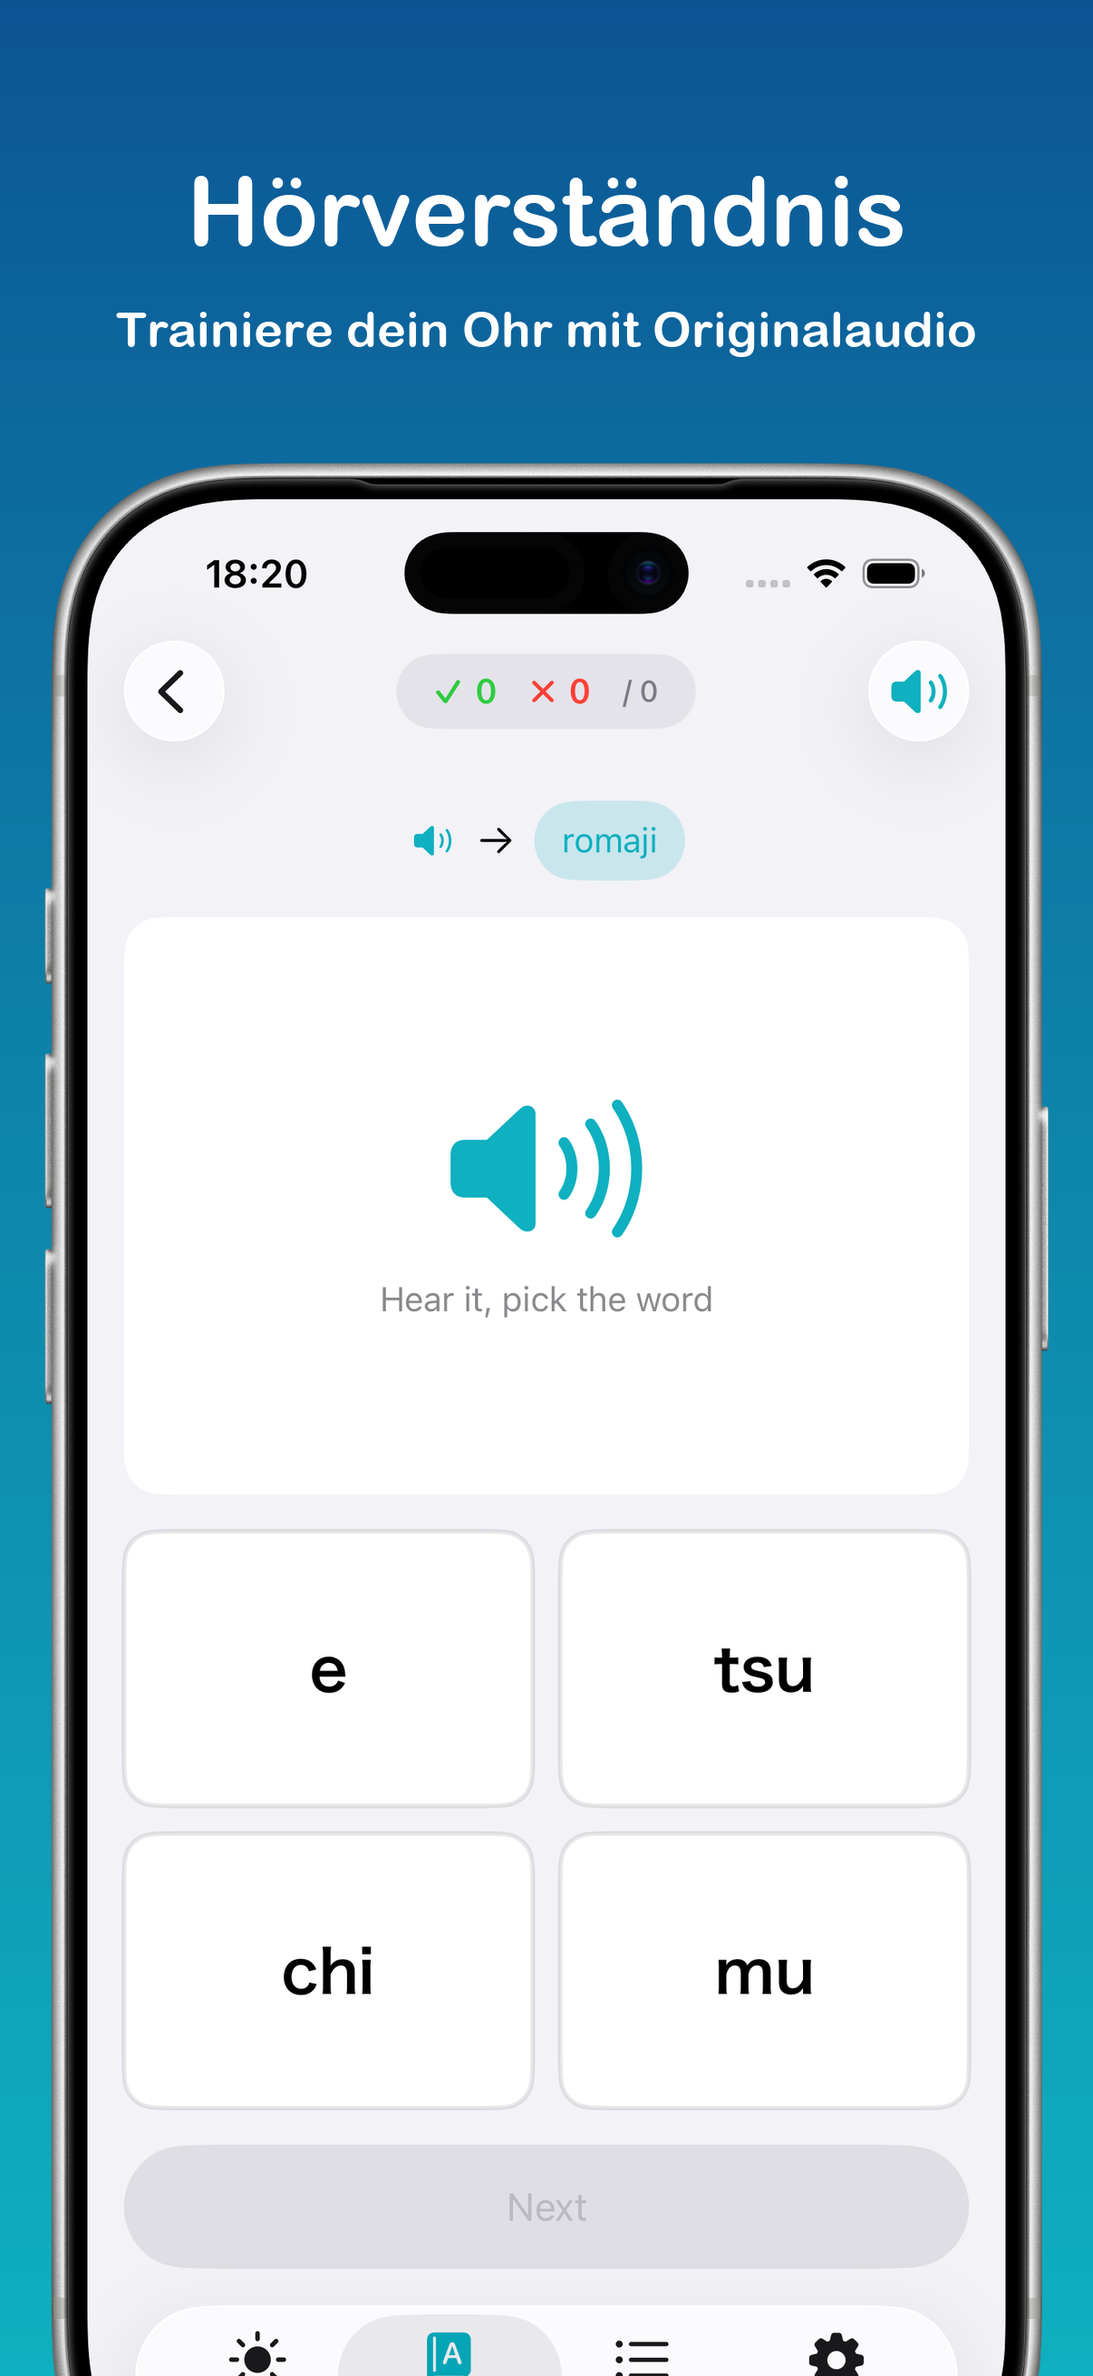
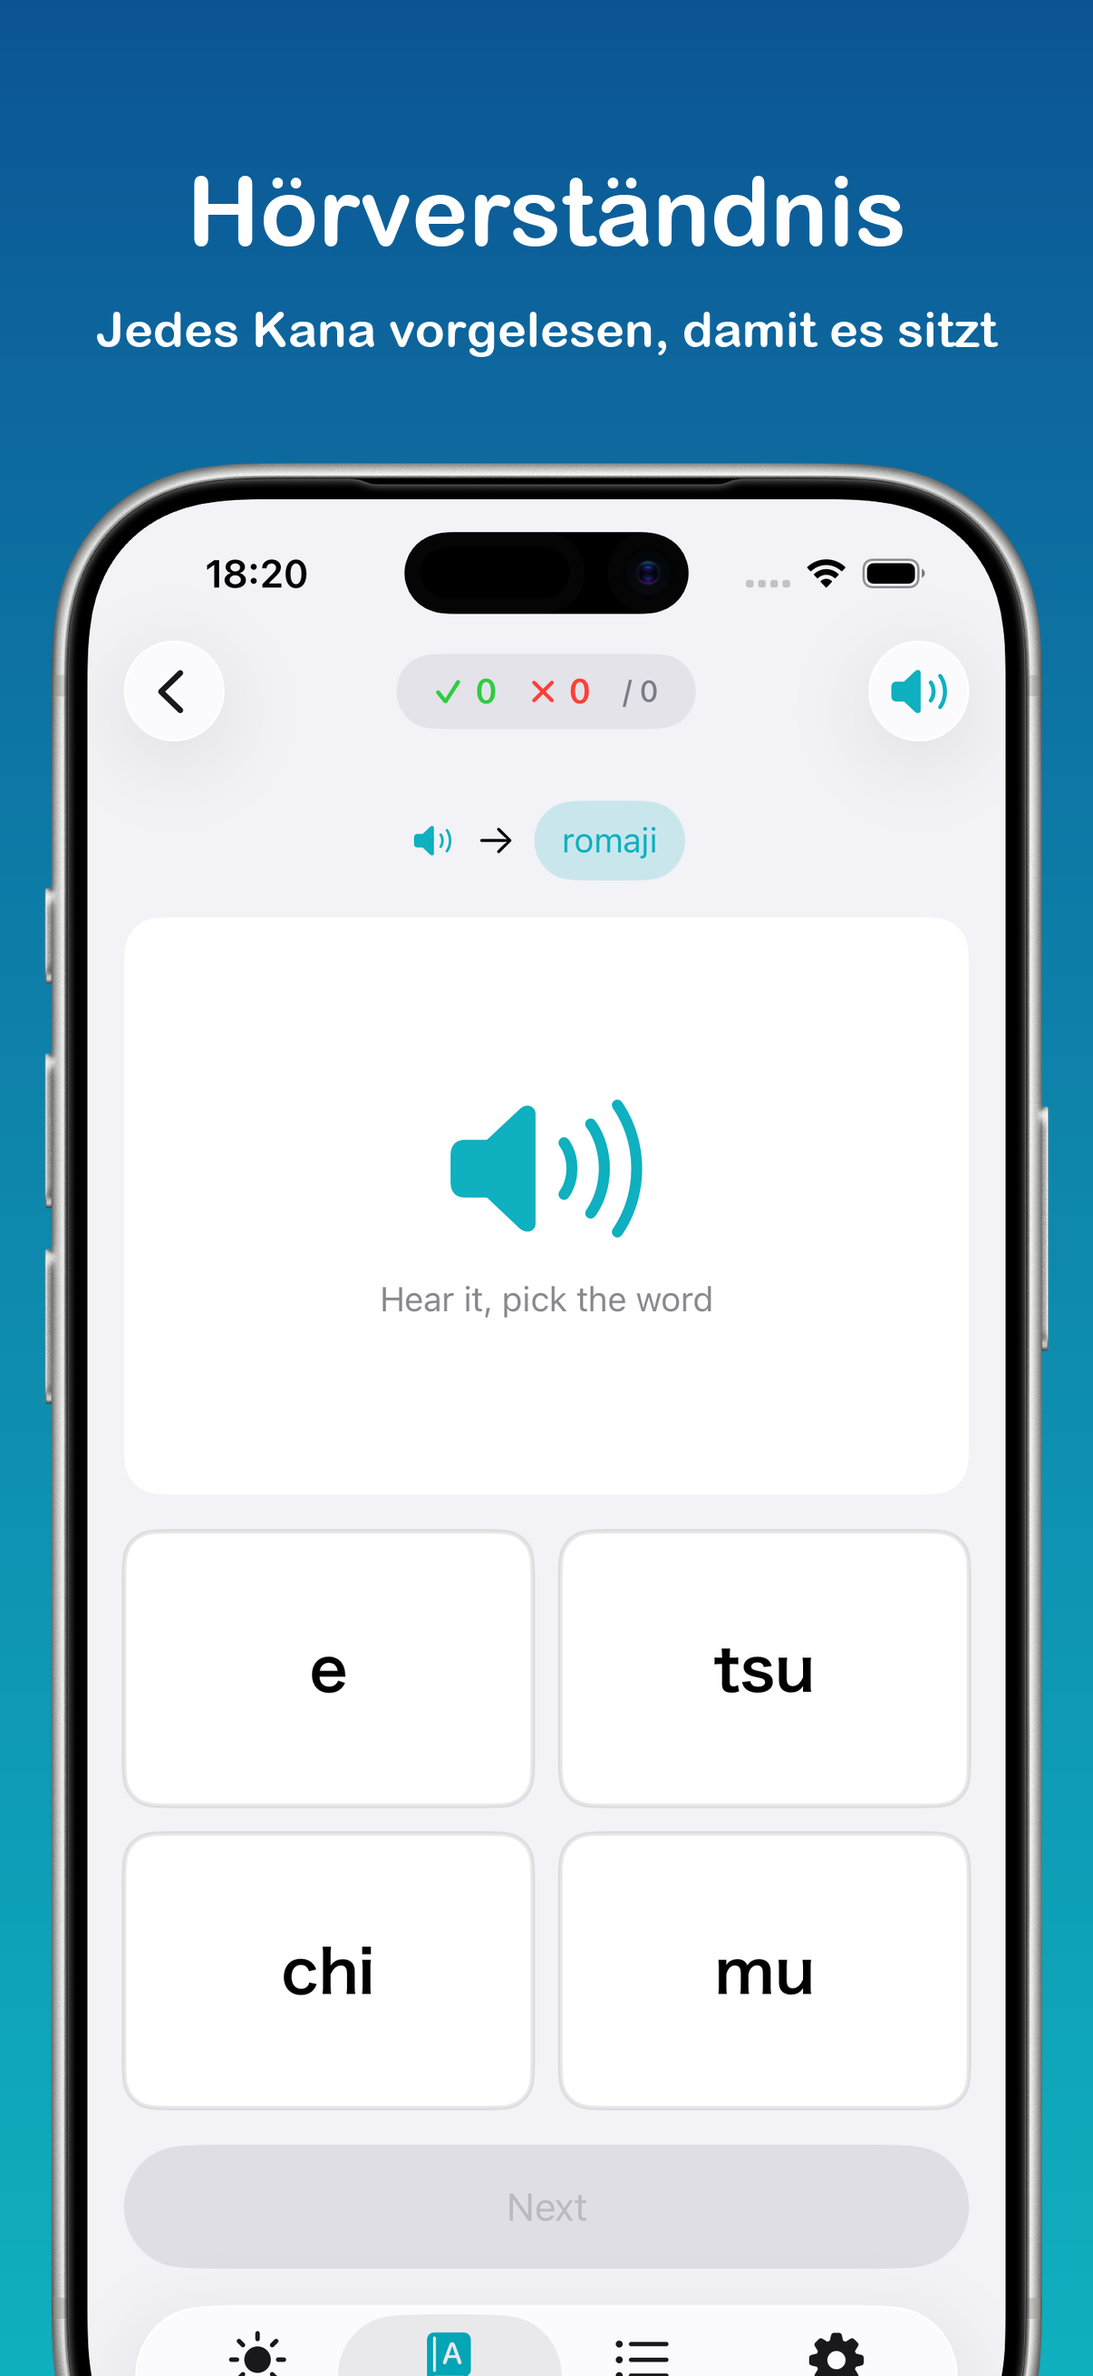
feat: frame App Store screenshots for six more locales
Adds es-ES, fr-FR, id, ja and ko, taking the framed sets to twelve locales at
22 images each. Headlines are written from each locale's own store description
register rather than translated from English, and name the practice modes the
way that language's UI names them.

Japanese gets Hiragino Maru Gothic ProN, the only rounded Japanese face on
macOS and the same family the app uses; Korean gets Apple SD Gothic Neo, since
no rounded Korean face exists. Neither needs shaping — kana are single glyphs
and modern Hangul is precomposed.

Hindi and Tamil stay out. Pillow here has no libraqm, so Devanagari conjuncts
never form and Tamil's pre-base vowel signs render on the wrong side or as a
dotted circle. The visual-order workaround was tried and rejected: it would put
text in the file that is not valid Hindi or Tamil, which --check cannot catch
because every codepoint still has a glyph.

Also drops the fil block, unshippable for the reason recorded in the Fastfile.

Changed region(s): [[0.092, 0.1236, 0.9204, 0.1545]]

diff --git a/fastlane/generate_framed_screenshots.py b/fastlane/generate_framed_screenshots.py
@@ -34,6 +34,11 @@ line must fit the canvas width on every device. Run it after any copy or font
 edit; a missing glyph or an overflowing line is silent at render time and only
 shows up as tofu boxes / clipped text in the uploaded screenshot.
 
+LOCALES covers every App Store localization except `hi` — Devanagari and Tamil
+cannot be rendered correctly without a text shaper, and this Pillow has none.
+That call is argued out in full in the comment below LOCALES; don't add either
+locale back without reading it.
+
 NOTE on architecture: the Pillow wheel installed on this machine is x86_64
 only; plain `python3` on Apple Silicon resolves to the arm64 slice and can't
 load Pillow's compiled extension. Always run this via `arch -x86_64 python3`
@@ -83,6 +88,8 @@ FONT_ARIAL_ROUNDED = "/System/Library/Fonts/Supplemental/Arial Rounded Bold.ttf"
 FONT_SF_ROUNDED = "/System/Library/Fonts/SFNSRounded.ttf"
 FONT_HEITI = "/System/Library/Fonts/STHeiti Medium.ttc"
 FONT_SUKHUMVIT = "/System/Library/Fonts/Supplemental/SukhumvitSet.ttc"
+FONT_HIRA_MARU = "/System/Library/Fonts/ヒラギノ丸ゴ ProN W4.ttc"
+FONT_APPLE_SD_GOTHIC = "/System/Library/Fonts/AppleSDGothicNeo.ttc"
 
 # Brand colors: BLUE sampled from nihongo/Assets.xcassets/AppIcon.appiconset/AppIcon.png,
 # TEAL read from nihongo/Assets.xcassets/AccentColor.colorset/Contents.json (also
@@ -130,7 +137,12 @@ LOCALES = {
         "02-kana-table": ("Hiragana & Katakana", "The complete kana charts"),
         "03-kana-flashcards": ("Kana flashcards", "Flip, listen, remember"),
         "04-kana-quiz-classic": ("Kana quizzes", "Test yourself, kana by kana"),
-        "06-kana-listening": ("Listening practice", "Train your ear with native audio"),
+        # Not "native audio": the clips are synthesised (`say -v Kyoko`), and two
+        # `~`-placeholder sentence templates have no clip at all. The whole store
+        # listing and the in-app paywall now claim what the audio is *for* rather
+        # than who recorded it, and the screenshots are the most-seen surface of
+        # the three, so they must say the same thing.
+        "06-kana-listening": ("Listening practice", "Every kana spoken, to help it stick"),
         "07-kana-write": ("Write practice", "Real stroke order, real memory"),
         "08-lessons": ("50 Minna no Nihongo lessons", "Every lesson, right on your phone"),
         "09-vocab-list": ("We speak your language", "Every word explained in 17 languages"),
@@ -142,7 +154,7 @@ LOCALES = {
         "02-kana-table": ("Hiragana & Katakana", "Die kompletten Kana-Tabellen"),
         "03-kana-flashcards": ("Kana-Karteikarten", "Umdrehen, hören, merken"),
         "04-kana-quiz-classic": ("Kana-Quiz", "Teste dich, Kana für Kana"),
-        "06-kana-listening": ("Hörverständnis", "Trainiere dein Ohr mit Originalaudio"),
+        "06-kana-listening": ("Hörverständnis", "Jedes Kana vorgelesen, damit es sitzt"),
         "07-kana-write": ("Schreibübung", "Echte Strichfolge, echtes Gedächtnis"),
         # Not "50 Minna-no-Nihongo-Lektionen": German compounding makes that one
         # unbreakable 26-character token, 140% of the text column, and word wrapping has
@@ -158,7 +170,7 @@ LOCALES = {
         "02-kana-table": ("五十音", "完整的平假名與片假名表"),
         "03-kana-flashcards": ("五十音字卡", "翻牌、聆聽、記住"),
         "04-kana-quiz-classic": ("五十音測驗", "一個一個考考自己"),
-        "06-kana-listening": ("聽力練習", "用母語發音訓練耳朵"),
+        "06-kana-listening": ("聽力練習", "每個假名都朗讀，聽了就記住"),
         "07-kana-write": ("書寫練習", "正確筆順，真正記住"),
         "08-lessons": ("50 課大家的日本語課程", "每一課都在你的手機裡"),
         "09-vocab-list": ("我們懂你的語言", "17 種語言，逐字講解"),
@@ -170,7 +182,7 @@ LOCALES = {
         "02-kana-table": ("Хирагана и катакана", "Полные таблицы каны"),
         "03-kana-flashcards": ("Карточки каны", "Переверни, послушай, запомни"),
         "04-kana-quiz-classic": ("Тесты по кане", "Проверь себя знак за знаком"),
-        "06-kana-listening": ("Тренировка слуха", "Живые записи носителей языка"),
+        "06-kana-listening": ("Тренировка слуха", "Каждый знак озвучен — и запомнится"),
         "07-kana-write": ("Учись писать", "Настоящий порядок черт"),
         "08-lessons": ("50 уроков Minna no Nihongo", "Каждый урок — в твоём телефоне"),
         "09-vocab-list": ("Говорим на твоём языке", "Каждое слово — на 17 языках"),
@@ -187,7 +199,7 @@ LOCALES = {
         "02-kana-table": ("Hiragana & Katakana", "Bảng chữ kana đầy đủ"),
         "03-kana-flashcards": ("Thẻ ghi nhớ kana", "Lật, nghe, ghi nhớ"),
         "04-kana-quiz-classic": ("Trắc nghiệm kana", "Tự kiểm tra từng chữ kana"),
-        "06-kana-listening": ("Luyện nghe", "Rèn tai với giọng đọc thật"),
+        "06-kana-listening": ("Luyện nghe", "Kana nào cũng có âm thanh, nhớ lâu"),
         "07-kana-write": ("Luyện viết", "Thứ tự nét đúng, nhớ lâu hơn"),
         "08-lessons": ("50 bài Minna no Nihongo", "Trọn bộ bài học trong túi bạn"),
         "09-vocab-list": ("Nói đúng tiếng của bạn", "Mỗi từ giải nghĩa bằng 17 thứ tiếng"),
@@ -202,14 +214,113 @@ LOCALES = {
         "02-kana-table": ("ฮิรางานะ & คาตาคานะ", "ตารางคานะครบทุกตัว"),
         "03-kana-flashcards": ("บัตรคำคานะ", "พลิก ฟัง จำได้"),
         "04-kana-quiz-classic": ("แบบทดสอบคานะ", "ทดสอบตัวเองทีละตัว"),
-        "06-kana-listening": ("ฝึกฟัง", "ฝึกหูกับเสียงเจ้าของภาษา"),
+        "06-kana-listening": ("ฝึกฟัง", "ทุกตัวคานะมีเสียงอ่าน จำได้แน่น"),
         "07-kana-write": ("ฝึกเขียน", "ลำดับเส้นถูกต้อง จำได้จริง"),
         "08-lessons": ("50 บทเรียน Minna no Nihongo", "ครบทุกบทอยู่ในมือคุณ"),
         "09-vocab-list": ("เราพูดภาษาของคุณ", "ทุกคำแปลครบ 17 ภาษา"),
         "11-lesson-learn": ("โหมดเรียนรู้", "ปัดดูคำใหม่พร้อมเสียงอ่าน"),
         "12-lesson-quiz": ("แบบทดสอบบทเรียน", "ตรวจว่าคุณจำได้จริงไหม"),
     },
+    # The Latin-script locales below reuse the mode names the app's own UI shows
+    # in that language (nihongo/UIStrings.json: Test/Tarjetas/Aprender,
+    # Quiz/Cartes mémo/Apprendre, Pagsusulit/Matuto, Kuis/Kartu kilas/Belajar),
+    # so a screenshot caption and the screen under it use the same word.
+    "es-ES": {
+        "01-today": ("Sigue tu progreso", "Cada día, de un vistazo"),
+        "02-kana-table": ("Hiragana y katakana", "Las tablas de kana completas"),
+        "03-kana-flashcards": ("Tarjetas de kana", "Gira, escucha, recuerda"),
+        "04-kana-quiz-classic": ("Test de kana", "Ponte a prueba kana a kana"),
+        "06-kana-listening": ("Entrena el oído", "Cada kana con voz, para que se fije"),
+        "07-kana-write": ("Escritura a mano", "Orden real de trazos, memoria real"),
+        "08-lessons": ("Minna no Nihongo: 50 lecciones", "Cada lección en tu bolsillo"),
+        "09-vocab-list": ("En tu idioma", "Cada palabra explicada en 17 idiomas"),
+        "11-lesson-learn": ("Modo Aprender", "Desliza palabras nuevas con voz"),
+        "12-lesson-quiz": ("Test de la lección", "Comprueba lo que sabes de verdad"),
+    },
+    # Straight ASCII apostrophes, as in en-US, not U+2019: Arial Rounded Bold does
+    # carry the typographic apostrophe, but mixing the two across locales in one
+    # file is how a stray one ends up somewhere that can't render it.
+    "fr-FR": {
+        "01-today": ("Suis ta progression", "Chaque jour, d'un seul regard"),
+        "02-kana-table": ("Hiragana et katakana", "Les tableaux de kana complets"),
+        "03-kana-flashcards": ("Cartes mémo de kana", "Retourne, écoute, retiens"),
+        "04-kana-quiz-classic": ("Quiz de kana", "Teste-toi, kana par kana"),
+        "06-kana-listening": ("Entraîne ton oreille", "Chaque kana prononcé, pour l'ancrer"),
+        "07-kana-write": ("Écriture à la main", "Le vrai ordre des traits"),
+        "08-lessons": ("Minna no Nihongo : 50 leçons", "Chaque leçon dans ta poche"),
+        "09-vocab-list": ("On parle ta langue", "Chaque mot en 17 langues"),
+        "11-lesson-learn": ("Mode Apprendre", "Fais défiler les mots, avec le son"),
+        "12-lesson-quiz": ("Quiz de la leçon", "Vérifie ce que tu sais vraiment"),
+    },
+    "id": {
+        "01-today": ("Pantau kemajuan", "Setiap hari, sekali lihat"),
+        "02-kana-table": ("Hiragana dan katakana", "Tabel kana yang lengkap"),
+        "03-kana-flashcards": ("Kartu kilas kana", "Balik, dengar, ingat"),
+        "04-kana-quiz-classic": ("Kuis kana", "Uji dirimu, satu per satu"),
+        "06-kana-listening": ("Latihan menyimak", "Tiap kana ada suaranya"),
+        "07-kana-write": ("Latihan menulis", "Urutan coretan yang sebenarnya"),
+        "08-lessons": ("Minna no Nihongo: 50 pelajaran", "Tiap pelajaran di sakumu"),
+        "09-vocab-list": ("Kami bicara bahasamu", "Tiap kata dalam 17 bahasa"),
+        "11-lesson-learn": ("Mode Belajar", "Geser kata baru, ada suaranya"),
+        "12-lesson-quiz": ("Kuis pelajaran", "Cek yang benar-benar kamu kuasai"),
+    },
+    # Japanese: the one locale whose store copy can use the textbook's real
+    # Japanese title, みんなの日本語, rather than the romanisation. Titles are kept
+    # to eight characters or fewer because wrap="char" would otherwise break a
+    # headline mid-word to make it fit — see the ja entry in LOCALE_TYPOGRAPHY.
+    "ja": {
+        "01-today": ("進捗はひと目で", "毎日の学習を記録"),
+        "02-kana-table": ("ひらがな・カタカナ", "全チャートを収録"),
+        "03-kana-flashcards": ("フラッシュカード", "めくって、聴いて、覚える"),
+        "04-kana-quiz-classic": ("かなクイズ", "1文字ずつ力試し"),
+        "06-kana-listening": ("リスニング練習", "すべてのかなに音声つき"),
+        "07-kana-write": ("手書き練習", "本物の筆順で採点"),
+        "08-lessons": ("みんなの日本語50課", "どの課もポケットの中に"),
+        "09-vocab-list": ("あなたの言語で", "全単語を17言語で解説"),
+        "11-lesson-learn": ("学習モード", "新しい単語を音声つきでめくる"),
+        "12-lesson-quiz": ("レッスンのクイズ", "本当に覚えたかを確認"),
+    },
+    "ko": {
+        "01-today": ("진도를 한눈에", "매일의 학습을 기록"),
+        "02-kana-table": ("히라가나·가타카나", "가나 표 전체 수록"),
+        "03-kana-flashcards": ("가나 플래시카드", "넘기고, 듣고, 기억하기"),
+        "04-kana-quiz-classic": ("가나 퀴즈", "한 글자씩 확인하기"),
+        "06-kana-listening": ("듣기 연습", "모든 가나에 음성 제공"),
+        "07-kana-write": ("손글씨 연습", "실제 획순으로 채점"),
+        "08-lessons": ("Minna no Nihongo 50과", "모든 레슨이 주머니 속에"),
+        "09-vocab-list": ("당신의 언어로", "모든 단어를 17개 언어로"),
+        "11-lesson-learn": ("학습 모드", "새 단어를 음성과 함께 넘기기"),
+        "12-lesson-quiz": ("레슨 퀴즈", "정말 익혔는지 확인"),
+    },
 }
+
+# Store locales deliberately left without screenshots: `hi` (Devanagari) and `ta`
+# (Tamil). Both are conjunct-forming scripts, and this Pillow has no libraqm, so
+# there is no shaping at all — the same limitation that ruled out Thonburi for
+# Thai, only worse, because for these two it is the *text* that comes out wrong
+# rather than one mark. Measured, not assumed, against every Devanagari and Tamil
+# face on macOS (Kohinoor, Devanagari Sangam MN, ITF Devanagari, Devanagari MT,
+# .SF Devanagari; Tamil Sangam MN, Tamil MN, InaiMathi, .SF Tamil):
+#
+#   Devanagari - the virama never triggers the conjunct substitution, so स्ट्रोक,
+#   प्र and र् render as base + visible halant + base instead of the stacked and
+#   subjoined forms. Hindi cannot be written around this: हिरागाना (hiragana),
+#   लिखावट (handwriting), अभ्यास (practice) and क्विज़ (quiz) all need conjuncts
+#   or a pre-base i-matra, so there is no wording that dodges it.
+#
+#   Tamil - the pre-base vowel signs ெ ே ை render to the *right* of their
+#   consonant (கே comes out as க+ே), the two-part signs ொ ோ ௌ render as a
+#   dotted-circle placeholder, and the pulli ் is zero-advance but unpositioned,
+#   so it lands between two letters instead of above one.
+#
+# A legacy "visual order" workaround (storing the matra codepoints pre-reordered)
+# was tried and rejected: it cannot form Devanagari conjuncts at all, it leaves
+# Tamil's pulli misplaced, and it would put text into this file that is not valid
+# Hindi or Tamil — which `--check` cannot audit, since every codepoint still has
+# a glyph. Shipping mangled Devanagari is worse than shipping no hi screenshots,
+# so these two locales fall back to en-US's set on the store. To add them
+# properly, this script needs a shaping engine: a Pillow built with libraqm, or
+# pre-rendering the headline through CoreText.
 
 # Locales that ship another locale's rendered images verbatim. Simplified Chinese
 # readers get the Traditional copy rather than an empty screenshot set; swap this
@@ -217,8 +328,10 @@ LOCALES = {
 LOCALE_ALIASES = {"zh-Hans": "zh-Hant"}
 
 # Per-locale typography. This used to be a single boolean — "CJK or not" — which
-# picked one of two fonts and one of two wrap modes; that can't express five
+# picked one of two fonts and one of two wrap modes; that can't express six
 # scripts, so it's a mapping now, with DEFAULT_TYPOGRAPHY for anything unlisted.
+# Unlisted means Arial Rounded Bold + word wrapping, which is right for every
+# plain-Latin locale (en-US, de-DE, es-ES, fr-FR, id).
 # Keys:
 #   font    path to a .ttf/.ttc
 #   index   face index inside a .ttc collection (ignored for a plain .ttf)
@@ -263,6 +376,27 @@ LOCALE_TYPOGRAPHY = {
     # zero-advance and sit at their final height with no shaping, so unshaped
     # Pillow output is correct.
     "th": dict(font=FONT_SUKHUMVIT, index=5),
+    # Japanese: Hiragino Maru Gothic ProN W4 (face 1 — face 0 is the older
+    # non-ProN variant with a smaller kanji set). This is the *only* rounded
+    # Japanese face on macOS, and it is the same family the app itself sets for
+    # Japanese headwords (Theme.jp = "HiraMaruProN-W4"), so the screenshots and
+    # the screens inside them use one typeface. Maru Gothic ships in W4 only,
+    # with no bold weight — which is exactly why Theme.jpBold falls back to
+    # Hiragino Sans W6 in the app. W4 is kept here anyway: at a 116px headline
+    # its strokes read as heavy as Heiti Medium does for Chinese, and staying
+    # rounded matters more than matching the Latin locales' bold.
+    # No shaping needed: kana and kanji are all independent single-glyph
+    # clusters, so unshaped Pillow output is correct. wrap="char" for the same
+    # reason as Chinese — Japanese has no word spaces.
+    "ja": dict(font=FONT_HIRA_MARU, index=1, wrap="char"),
+    # Korean: Apple SD Gothic Neo Bold (face 6 — the odd indices are the hidden
+    # ".Apple SD Gothic NeoI" interface variants, not what we want). No rounded
+    # Korean face ships with macOS, so this is the same compromise Chinese makes
+    # with Heiti. Korean needs no shaping either: modern Hangul is written in
+    # precomposed syllable blocks (U+AC00..U+D7A3), one codepoint and one glyph
+    # per syllable, so no jamo composition happens at render time. wrap="word"
+    # because Korean *does* put spaces between words, unlike Chinese/Japanese.
+    "ko": dict(font=FONT_APPLE_SD_GOTHIC, index=6),
 }
 
 
